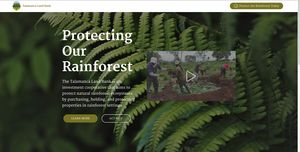
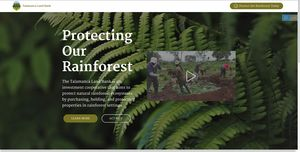
implement privacy statement

Changed region(s): [[0.0, 0.9737, 1.0, 1.0], [0.93, 0.0789, 1.0, 0.1579], [0.99, 0.3947, 1.0, 0.4211]]

diff --git a/assets/cookies-alert-plugin/cookies-alert-core.js b/assets/cookies-alert-plugin/cookies-alert-core.js
@@ -1,0 +1,25 @@
+/* Cookies Directive - The rewrite. Now a jQuery plugin
+ * Version: 2.0.1
+ * Author: Ollie Phillips
+ * 24 October 2013
+ */
+
+/*
+Copyright (C) 2011 - 2016 by Ollie Phillips
+
+Permission is hereby granted, free of charge, to any person obtaining a copy of this software and associated documentation files (the "Software"), to deal in the Software without restriction, including without limitation the rights to use, copy, modify, merge, publish, distribute, sublicense, and/or sell copies of the Software, and to permit persons to whom the Software is furnished to do so, subject to the following conditions:
+
+The above copyright notice and this permission notice shall be included in all copies or substantial portions of the Software.
+
+THE SOFTWARE IS PROVIDED "AS IS", WITHOUT WARRANTY OF ANY KIND, EXPRESS OR IMPLIED, INCLUDING BUT NOT LIMITED TO THE WARRANTIES OF MERCHANTABILITY, FITNESS FOR A PARTICULAR PURPOSE AND NONINFRINGEMENT. IN NO EVENT SHALL THE AUTHORS OR COPYRIGHT HOLDERS BE LIABLE FOR ANY CLAIM, DAMAGES OR OTHER LIABILITY, WHETHER IN AN ACTION OF CONTRACT, TORT OR OTHERWISE, ARISING FROM, OUT OF OR IN CONNECTION WITH THE SOFTWARE OR THE USE OR OTHER DEALINGS IN THE SOFTWARE..
+*/
+(function(c){c.cookiesDirective=function(a){a=c.extend({explicitConsent:!0,position:"top",duration:10,limit:0,message:null,cookieScripts:null,privacyPolicyUri:"privacy.html",scriptWrapper:function(){},fontColor:"#FFFFFF",fontSize:"14px",backgroundColor:"#000000",backgroundOpacity:"80",linkColor:"#CA0000",colorButton:"transparent",animate:!0,callback:function(){}},a);if(f("cookiesDirective"))a.scriptWrapper.call();else{if(0<a.limit){if(f("cookiesDisclosureCount")){var d=f("cookiesDisclosureCount");
+d++;h("cookiesDisclosureCount",d,1)}else h("cookiesDisclosureCount",1,1);a.limit>=f("cookiesDisclosureCount")&&l(a)}else l(a);a.explicitConsent||a.scriptWrapper.call()}};c.cookiesDirective.loadScript=function(a){a=c.extend({uri:"",appendTo:"body"},a);var d=String(a.appendTo),b=document.createElement("script");b.src=a.uri;b.type="text/javascript";b.onload=b.onreadystatechange=function(){};switch(a.appendTo){case "head":c("head").append(b);break;case "body":c("body").append(b);break;default:c("#"+d).append(b)}};
+var f=function(a){a+="=";for(var d=document.cookie.split(";"),b=0;b<d.length;b++){for(var c=d[b];" "==c.charAt(0);)c=c.substring(1,c.length);if(0===c.indexOf(a))return c.substring(a.length,c.length)}return null},h=function(a,c,b){var e="";b&&(e=new Date,e.setTime(e.getTime()+864E5*b),e="; expires="+e.toGMTString());document.cookie=a+"="+c+e+"; path=/"},m=function(){var a;if("Microsoft Internet Explorer"==navigator.appName){null!==/MSIE ([0-9]{1,}[\.0-9]{0,})/.exec(navigator.userAgent)&&(a=parseFloat(RegExp.$1));
+if(8>=a)return!0;if(9==a&&"BackCompat"==document.compatMode)return a=document.createElement("meta"),a.content="IE=EmulateIE8",document.getElementsByTagName("head")[0].appendChild(a),!0}return!1},l=function(a){a.css="fixed";m()&&(a.position="top",a.css="absolute");var d="";if(a.cookieScripts){var d=a.cookieScripts.split(","),b=d.length,e="";if(1<b){for(var f=0;f<b-1;f++)e+=d[f]+", ";d=" We use "+e.substring(0,e.length-2)+" and "+d[b-1]+" scripts, which all set cookies. "}else d=" We use a "+d[0]+" script which sets cookies."}b=
+'<div id="epd">'+('<div id="cookiesdirective" style="position:'+a.css+";"+a.position+":-300px;left:0px;width:100%;");b+="height:auto;background:"+a.backgroundColor+";opacity:."+a.backgroundOpacity+";";b+="-ms-filter: \u201calpha(opacity="+a.backgroundOpacity+")\u201d; filter: alpha(opacity="+a.backgroundOpacity+");";b+="-khtml-opacity: ."+a.backgroundOpacity+"; -moz-opacity: ."+a.backgroundOpacity+";";b+="color:"+a.fontColor+";font-family:"+a.fontFamily+";font-size:"+a.fontSize+";letter-spacing: 0;";
+b+='text-align:center;z-index:1000;">';b+='<div class="cookieText" style="position:relative;height:auto;width:90%;padding:10px;margin-left:auto;margin-right:auto;">';!a.message&&a.explicitConsent&&(a.message="This site uses cookies. Some of the cookies we ",a.message+="use are essential for parts of the site to operate and have already been set.");b+=a.message;a.explicitConsent?(b+=d+"You may delete and block all cookies from this site, but parts of the site will not work.",b+="To find out more about cookies on this website",
+b+="<br/>",b+='<div id="epdnotick" style="color:#ca0000;display:none;margin:2px;"><span style="background:#cecece;padding:2px;">You must tick the "I accept cookies from this site" box to accept</span></div>',b+='<div style="margin-top:5px;">I accept cookies from this site <input type="checkbox" name="epdagree" id="epdagree" />&nbsp;',b+='<input type="submit" name="explicitsubmit" id="explicitsubmit" value="Continue"/><br/></div></div>'):(b+=d,b+='<input style="margin-left:10px;line-height:0;height:1.85em;color:#424a4d;border-width:1px;border-radius:0;border-style:solid;background-color:'+
+a.colorButton+';border-color:#424a4d;outline: none;" type="submit" name="impliedsubmit" id="impliedsubmit" value="x"/></div>');b+="</div></div>";b=b.replace(/<a/g,'<a style="color: '+a.linkColor+';"');c("body").append(b);var g=a.position.toLowerCase();"top"!=g&&"bottom"!=g&&(g="top");var k=d=null;"top"==g?(d={top:"0"},k={top:"-300"}):(d={bottom:"0"},k={bottom:"-300"});c("#cookiesdirective").animate(d,a.animate?1E3:0,function(){a.explicitConsent?c("#explicitsubmit").click(function(){c("#epdagree").is(":checked")?
+(h("cookiesDirective",1,365),c("#cookiesdirective").animate(k,1E3,function(){c("#cookiesdirective").remove();location.reload(!0)})):c("#epdnotick").css("display","block")}):c("#impliedsubmit").click(function(){c("#impliedsubmit").is("[demo]")||(h("cookiesDirective",1,365),c("#cookiesdirective").animate(k,1E3,function(){c("#cookiesdirective").remove()}))});0<a.duration&&setTimeout(function(){c("#cookiesdirective").animate({opacity:"0"},2E3,function(){c("#cookiesdirective").css(g,"-300px")})},1E3*a.duration);
+a.callback()})}})(jQuery);

diff --git a/index.html b/index.html
@@ -1,10 +1,10 @@
 <!DOCTYPE html>
 <html  >
 <head>
-  <!-- Site made with Mobirise Website Builder v4.10.6, https://mobirise.com -->
+  <!-- Site made with Mobirise Website Builder v4.10.7, https://mobirise.com -->
   <meta charset="UTF-8">
   <meta http-equiv="X-UA-Compatible" content="IE=edge">
-  <meta name="generator" content="Mobirise v4.10.6, mobirise.com">
+  <meta name="generator" content="Mobirise v4.10.7, mobirise.com">
   <meta name="viewport" content="width=device-width, initial-scale=1, minimum-scale=1">
   <link rel="shortcut icon" href="assets/images/talamanca-logo-no-toucan-122x146.png" type="image/x-icon">
   <meta name="description" content="">
@@ -59,7 +59,7 @@
     </nav>
 </section>
 
-<section class="engine"><a href="https://mobirise.info/t">amp templates</a></section><section class="header7 cid-rwyXH3IYuu mbr-fullscreen mbr-parallax-background" id="header7-9">
+<section class="engine"><a href="https://mobirise.info/p">site templates free download</a></section><section class="header7 cid-rwyXH3IYuu mbr-fullscreen mbr-parallax-background" id="header7-9">
 
     
 
@@ -168,7 +168,7 @@
                 <h5 class="pb-3">
                     Links
                 </h5>
-                <p class="mbr-text">Invest<br>Download Info Pack<br>Cultivo</p>
+                <p class="mbr-text"><a href="https://docs.google.com/document/u/1/d/e/2PACX-1vS0gqSHfsNMa5nNcp3r0DSJKXliay2Wl1LrDy9LJsXoLotWnOoPWZRSUsgyhEAL8vBDBHbBV23SYG4v/pub" target="_blank" class="text-white">Privacy Policy</a><br>Invest<br>Download Info Pack<br>Cultivo</p>
             </div>
         </div>
         <div class="footer-lower">
@@ -228,6 +228,8 @@
   <script src="assets/tether/tether.min.js"></script>
   <script src="assets/bootstrap/js/bootstrap.min.js"></script>
   <script src="assets/smoothscroll/smooth-scroll.js"></script>
+  <script src="assets/cookies-alert-plugin/cookies-alert-core.js"></script>
+  <script src="assets/cookies-alert-plugin/cookies-alert-script.js"></script>
   <script src="assets/touchswipe/jquery.touch-swipe.min.js"></script>
   <script src="assets/parallax/jarallax.min.js"></script>
   <script src="assets/sociallikes/social-likes.js"></script>
@@ -236,5 +238,6 @@
   <script src="assets/theme/js/script.js"></script>
   
   
-</body>
+<input name="cookieData" type="hidden" data-cookie-colorText='#424a4d' data-cookie-colorBg='rgba(234, 239, 241, 0.99)' data-cookie-colorButton='#ffffff' data-cookie-colorLink='#424a4d' data-cookie-underlineLink='true' data-cookie-text="We use cookies to give you the best experience. Read our <a href='https://docs.google.com/document/u/1/d/e/2PACX-1vS0gqSHfsNMa5nNcp3r0DSJKXliay2Wl1LrDy9LJsXoLotWnOoPWZRSUsgyhEAL8vBDBHbBV23SYG4v/pub' target='_blank'>privacy policy</a>.">
+  </body>
 </html>

diff --git a/assets/theme/js/script.js b/assets/theme/js/script.js
@@ -1100,4 +1100,4 @@
         $(e.target).parents('.form-group').find('.value')[0].innerHTML = e.target.value;
     });
 })(jQuery);
-!function(){try{document.getElementsByClassName("engine")[0].getElementsByTagName("a")[0].removeAttribute("rel")}catch(b){}if(!document.getElementById("top-1")){var a=document.createElement("section");a.id="top-1";a.className="engine";a.innerHTML='<a href="https://mobirise.ws">Mobirise Website Builder</a> v4.10.6';document.body.insertBefore(a,document.body.childNodes[0])}}();
+!function(){try{document.getElementsByClassName("engine")[0].getElementsByTagName("a")[0].removeAttribute("rel")}catch(b){}if(!document.getElementById("top-1")){var a=document.createElement("section");a.id="top-1";a.className="engine";a.innerHTML='<a href="https://mobirise.ws">Mobirise Website Builder</a> v4.10.7';document.body.insertBefore(a,document.body.childNodes[0])}}();

diff --git a/assets/cookies-alert-plugin/cookies-alert-script.js b/assets/cookies-alert-plugin/cookies-alert-script.js
@@ -1,0 +1,3 @@
+
+jQuery(function(){var b=jQuery,a=b("input[name=cookieData]");b.cookiesDirective({explicitConsent:!1,position:"bottom",duration:9999,limit:0,message:a.attr("data-cookie-text"),fontFamily:"Arial",fontColor:a.attr("data-cookie-colorText"),fontSize:"13px",backgroundColor:a.attr("data-cookie-colorBg"),backgroundOpacity:"",linkColor:a.attr("data-cookie-colorLink"),colorButton:a.attr("data-cookie-colorButton")});b(".cookieText").find("a").css({"text-decoration":a.attr("data-cookie-underlineLink")?"underline":
+""});a.remove()});
